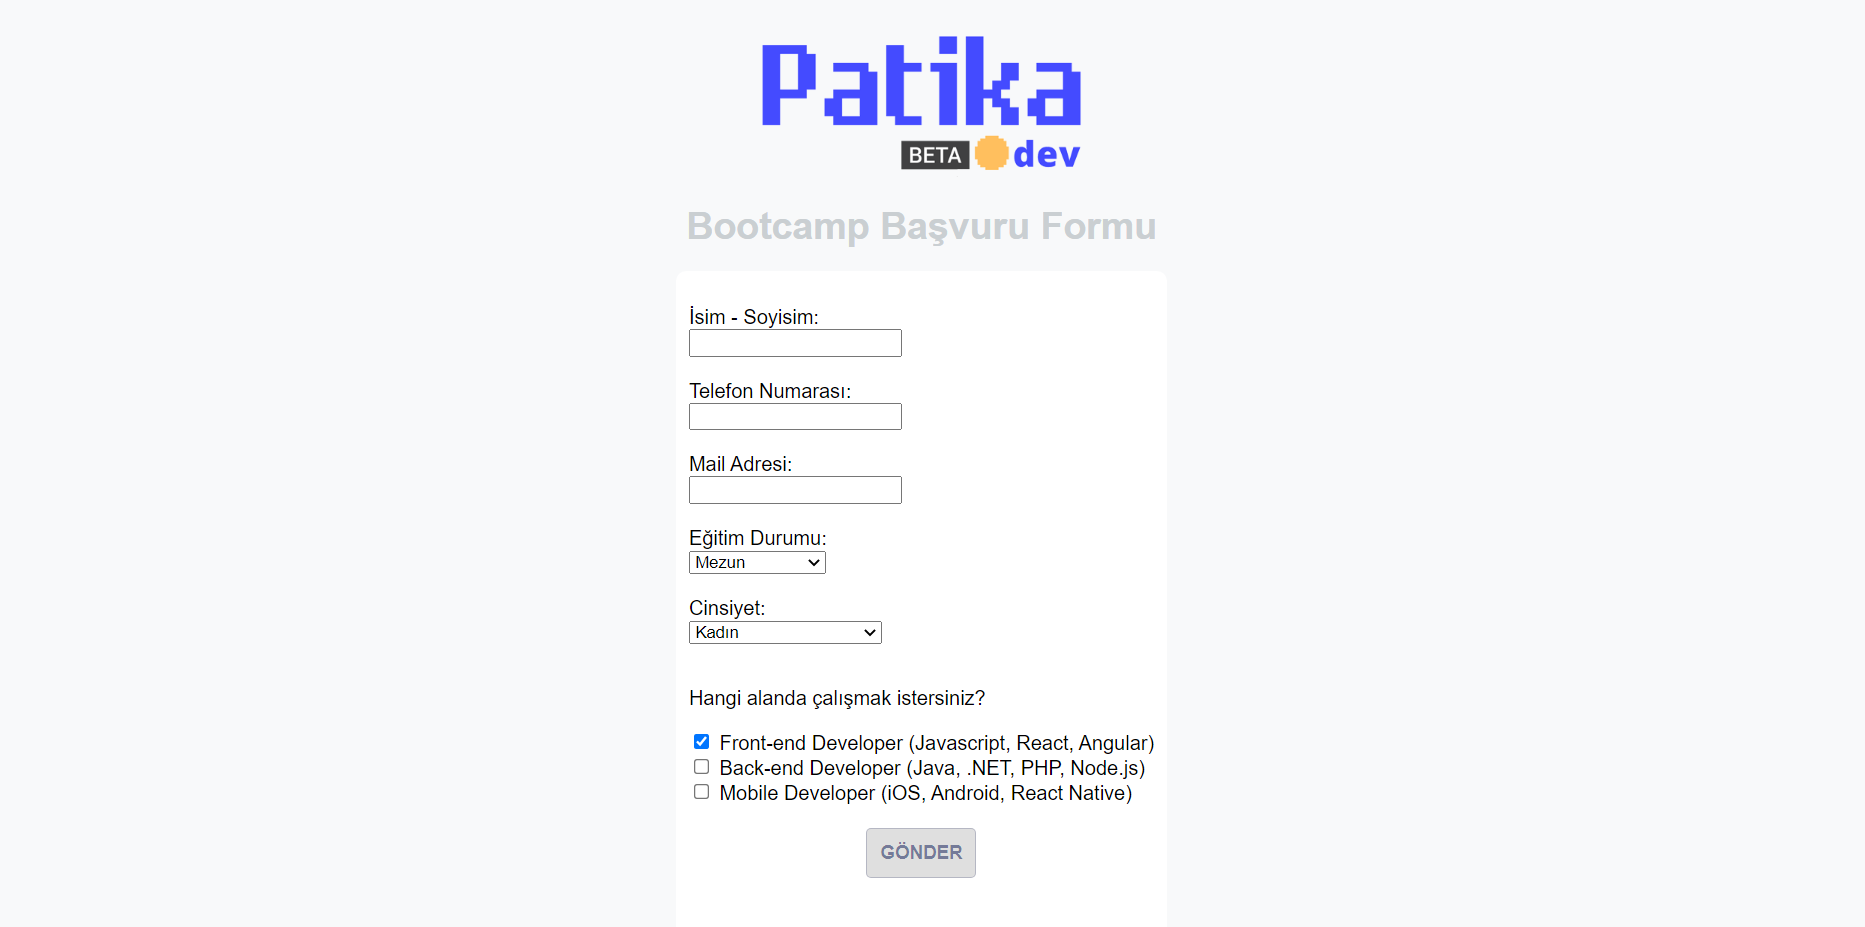
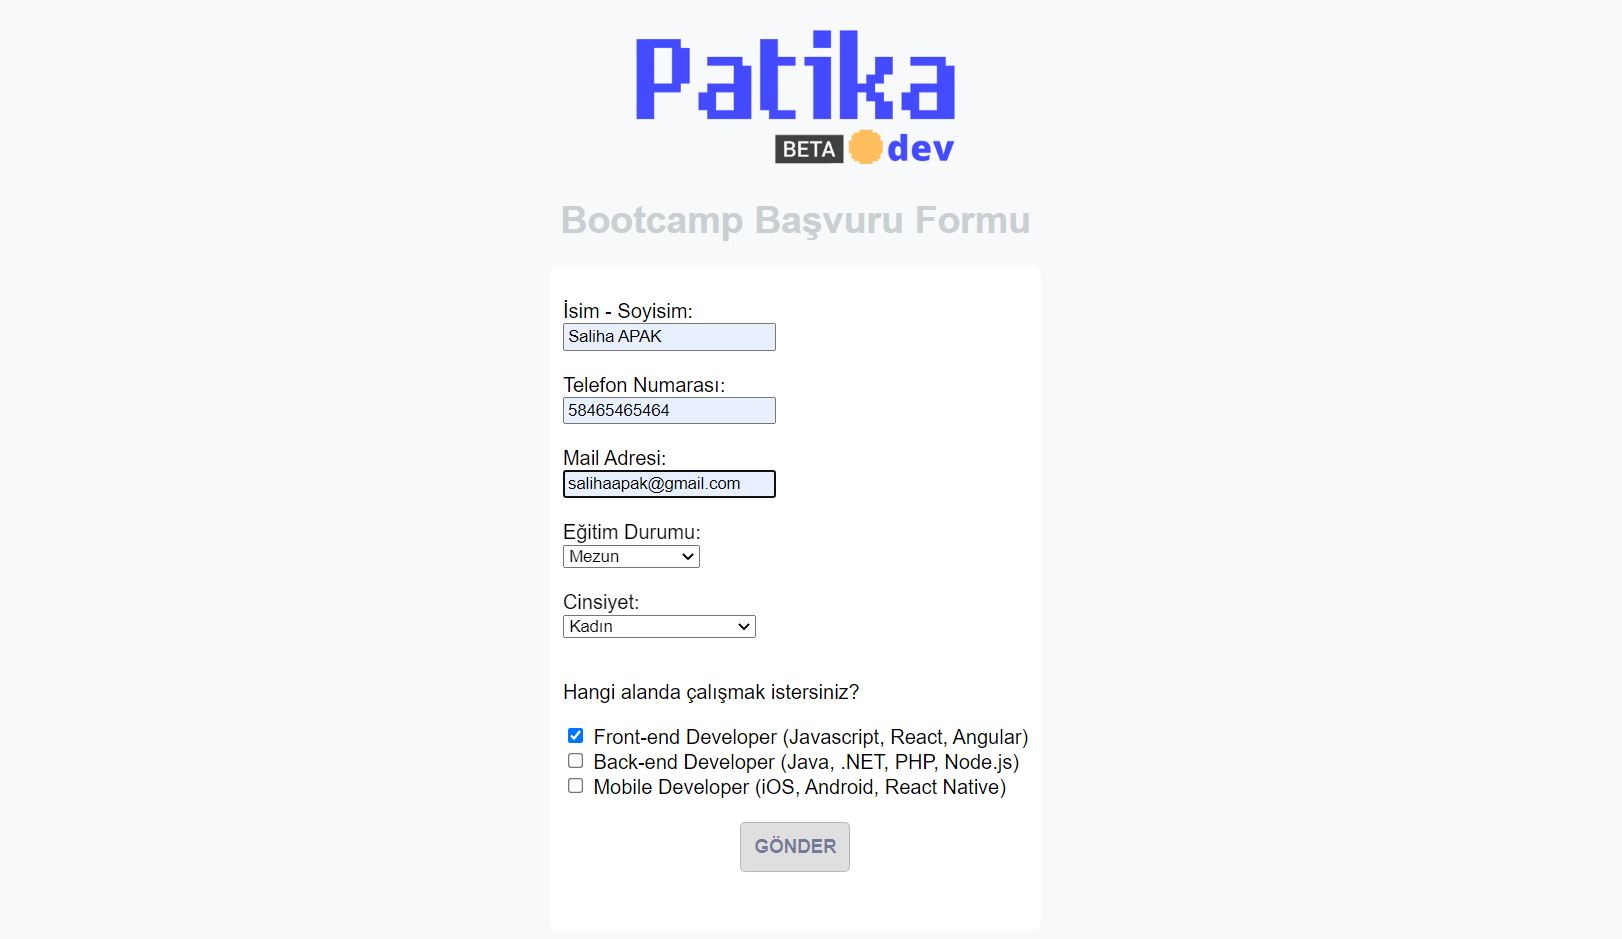
add second img to readme

diff --git a/README.md b/README.md
@@ -2,3 +2,5 @@
 Application form page that allows to keep the information entered on the form page in an array.
 
 <img src="page.png" alt="Alt text" title="Optional title">
+<br>
+<img src="info.png" alt="Alt text" title="Optional title">
